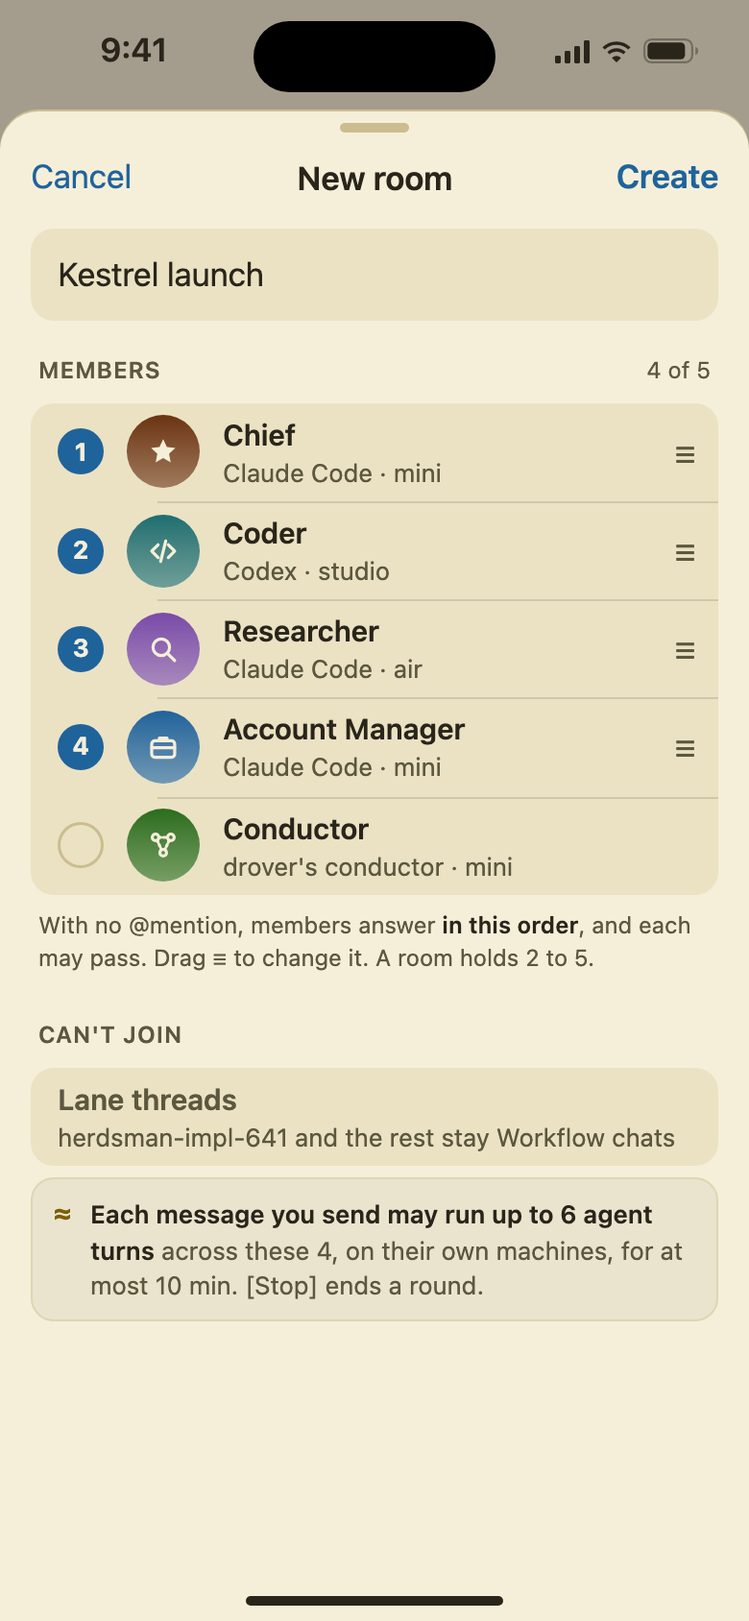
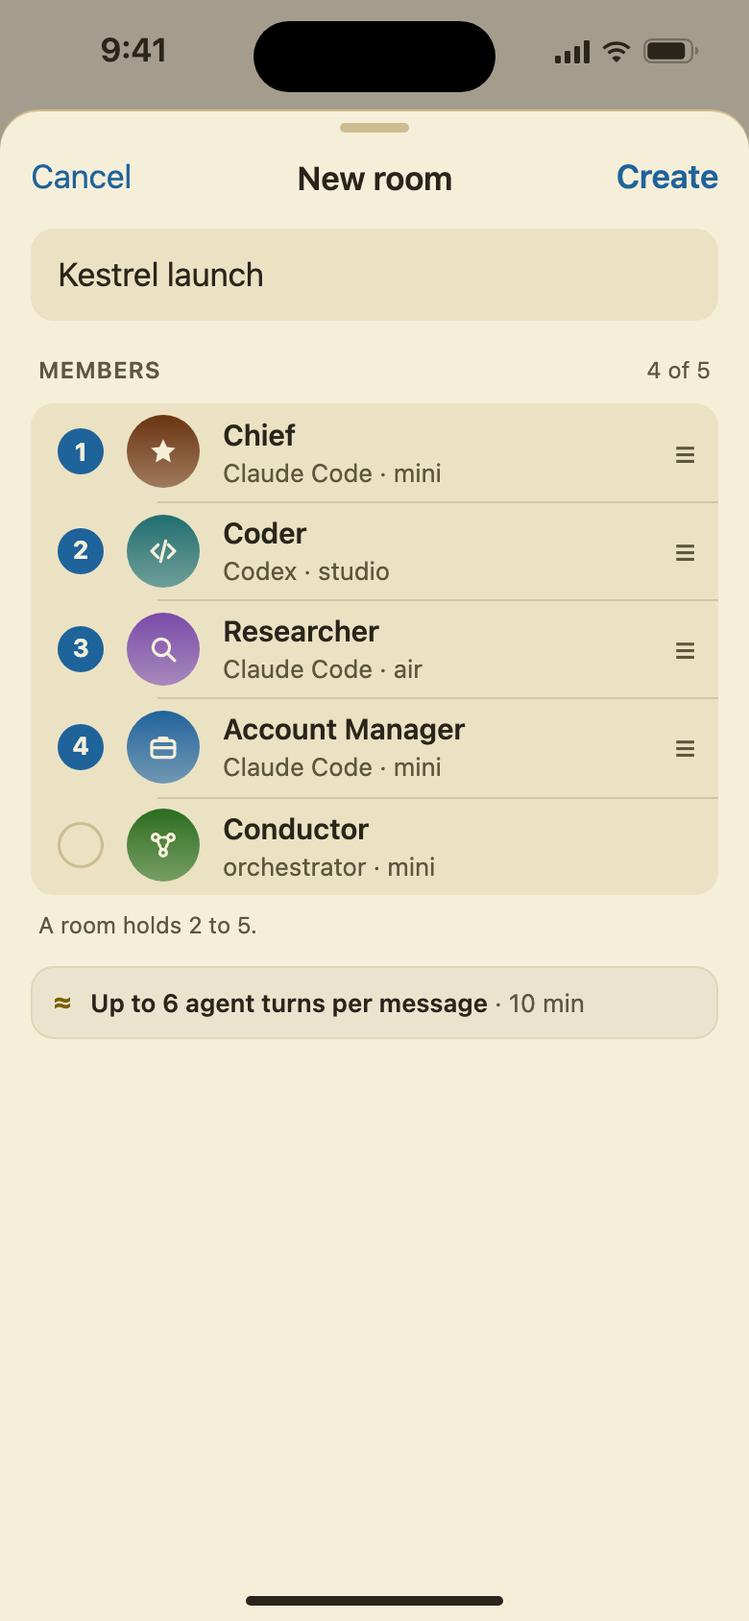
design: rooms revision 2: cut prose, orchestrator subtitle, linked-thread note composer, phone Home (#153; q1071, q1079)

diff --git a/docs/design/rooms/linked.html b/docs/design/rooms/linked.html
@@ -25,8 +25,9 @@
     <li class="at">I'll ask Researcher for the figures.</li>
     <li class="lx"><span class="lxh"><i class="pa" data-p="coder"></i><i>→</i><i class="pa" data-p="res"></i><span><b>Coder</b> asked <b>Researcher</b></span></span>
       <q>What did Kestrel report for Q3 revenue? I need the number and the filing date.</q>
-      <p class="lo"><span>✓ replied in 48s</span><a href="#">Open ›</a></p></li>
-    <li class="at">Q3 was <b>$4.1M</b> (10-Q, 6 Nov). It's in export/summary.md. I'll check the discount too.</li>
+      <p class="lnote"><b>Your note</b> Use the 10-Q, not the deck, if they differ.</p>
+      <p class="lo"><span>✓ replied in 48s · with your note</span><a href="#">Open ›</a></p></li>
+    <li class="at">Q3 was <b>$4.1M</b> (10-Q, 6 Nov, per your note). It's in export/summary.md. I'll check the discount too.</li>
     <li class="lx no"><span class="lxh"><i class="pa" data-p="coder"></i><i>→</i><i class="pa" data-p="am"></i><span><b>Coder</b> asked <b>Account Manager</b></span></span>
       <q>Is the 8% Kestrel discount final?</q>
       <p class="lo"><span>Not sent: Coder may not ask Account Manager</span><a href="#">Persona ›</a></p></li>
@@ -39,7 +40,8 @@
 </section></div>
 
 <!-- The linked exchange thread: the asker's message, the asked persona's tools (you see them; the asker got only the
-     reply), a depth-2 ask nested in it, the reply that went back. Read-only, with the depth meter. -->
+     reply), the owner's note to the answerer (the asker gets it with the reply), a depth-2 ask nested in it, the reply
+     that went back, the depth meter and the note composer. -->
 <div class="fr"><p class="cap">The linked thread · Coder ⇄ Researcher</p>
 <section class="ph col" data-f="linked">
   <header class="rhd"><a class="gb" href="#" data-tx="[<]" aria-label="back"><svg viewBox="0 0 24 24"><path d="M15 5l-7 7 7 7"/></svg></a>
@@ -52,21 +54,24 @@
       <div class="mt">What did Kestrel report for Q3 revenue? I need the number and the filing date.</div></li>
     <li class="mg" data-t="res"><i class="pa" data-p="res"></i><span class="mname"><b>Researcher</b><span>09:50</span></span>
       <a class="mx" href="#"><b class="g">✓</b><span>fetch sec.gov · 2 tools · only you see these</span><i>›</i></a></li>
+    <li class="onote"><span class="olb">Your note · to Researcher</span><span class="blk me">Use the 10-Q, not the deck, if they differ.</span></li>
     <li class="lx"><span class="lxh"><i class="pa" data-p="res"></i><i>→</i><i class="pa" data-p="am"></i><span><b>Researcher</b> asked <b>Account Manager</b></span></span>
       <q>Does Kestrel's Q3 deck restate revenue?</q>
-      <p class="lo"><span>✓ replied in 21s · depth 2, it may ask no one</span><a href="#">Open ›</a></p></li>
+      <p class="lo"><span>✓ replied in 21s · depth 2</span><a href="#">Open ›</a></p></li>
     <li class="mg" data-t="res"><i class="pa" data-p="res"></i><span class="mname"><b>Researcher</b><span>replied · 09:51</span></span>
-      <div class="mt">Q3 revenue was <b>$4.1M</b>, up 12% on Q2, from the 10-Q filed 6 Nov. Their deck agrees.</div></li>
-    <li class="rnd">returned to Coder · 48s</li>
+      <div class="mt">Q3 revenue was <b>$4.1M</b>, up 12% on Q2, from the 10-Q filed 6 Nov, as you asked. Their deck agrees.</div></li>
+    <li class="rnd">returned to Coder with your note · 48s</li>
   </ol>
   <div class="lxf">
     <span class="dep"><i><u></u><u class="o"></u></i>depth 1 of 2 · Researcher could ask one more</span>
-    <span>You watch linked exchanges here; you talk to a persona in its own chat.</span>
     <span class="bt2"><a href="#">Coder's chat</a><a href="#">Researcher's chat</a></span>
+  </div>
+  <div class="dock">
+    <div class="comp"><a class="gb" href="#" data-tx="[+]">+</a><span class="cfld"><span>Note to Researcher</span></span><span class="snd">↑</span></div>
   </div>
 </section></div>
 
-<!-- An ask in a room names its member; the round waits on you; only you see it (G3). -->
+<!-- An ask in a room names its member; the round waits on you with its clock paused; only you see it (G3). -->
 <div class="fr"><p class="cap">A room ask · names the member</p>
 <section class="ph col" data-f="approval">
   <header class="rhd"><a class="gb" href="#" data-tx="[<]" aria-label="back"><svg viewBox="0 0 24 24"><path d="M15 5l-7 7 7 7"/></svg></a>
@@ -117,18 +122,22 @@
         <div class="mt">What did Kestrel report for Q3 revenue? I need the number and the filing date.</div></li>
       <li class="mg" data-t="res"><i class="pa" data-p="res"></i><span class="mname"><b>Researcher</b><span>09:50</span></span>
         <a class="mx" href="#"><b class="g">✓</b><span>fetch sec.gov · 2 tools · only you see these</span><i>›</i></a></li>
+      <li class="onote"><span class="olb">Your note · to Researcher</span><span class="blk me">Use the 10-Q, not the deck, if they differ.</span></li>
       <li class="lx"><span class="lxh"><i class="pa" data-p="res"></i><i>→</i><i class="pa" data-p="am"></i><span><b>Researcher</b> asked <b>Account Manager</b></span></span>
         <q>Does Kestrel's Q3 deck restate revenue?</q>
-        <p class="lo"><span>✓ replied in 21s · depth 2, it may ask no one</span><a href="#">Open ›</a></p></li>
+        <p class="lo"><span>✓ replied in 21s · depth 2</span><a href="#">Open ›</a></p></li>
       <li class="mg" data-t="res"><i class="pa" data-p="res"></i><span class="mname"><b>Researcher</b><span>replied · 09:51</span></span>
-        <div class="mt">Q3 revenue was <b>$4.1M</b>, up 12% on Q2, from the 10-Q filed 6 Nov. Their deck agrees.</div></li>
-      <li class="rnd">returned to Coder · 48s</li>
+        <div class="mt">Q3 revenue was <b>$4.1M</b>, up 12% on Q2, from the 10-Q filed 6 Nov, as you asked. Their deck agrees.</div></li>
+      <li class="rnd">returned to Coder with your note · 48s</li>
     </ol>
     <div class="lxf">
-      <span class="dep"><i><u></u><u class="o"></u></i>depth 1 of 2 · Researcher could ask one more · you watch here; you talk to a persona in its own chat</span>
+      <span class="dep"><i><u></u><u class="o"></u></i>depth 1 of 2 · Researcher could ask one more</span>
       <span class="bt2"><a href="#">Coder's chat</a><a href="#">Researcher's chat</a></span>
     </div>
-  </div>
+    <div class="dock">
+      <div class="comp"><a class="gb" href="#" data-tx="[+]">+</a><span class="cfld"><span>Note to Researcher</span></span><span class="snd">↑</span></div>
+    </div>
+</div>
 </section></div>
 
 </div>

diff --git a/docs/design/rooms/room.html b/docs/design/rooms/room.html
@@ -12,8 +12,15 @@
 <body>
 <div class="gal">
 
-<!-- New room: a sheet from Home's +. Name, members in room order (2–5, G6), Conductor may join (G5), lane threads
-     may not, and the cost note before the room exists. -->
+<!-- Home on the phone: a room is a row with its members' 2×2 stack, as at 1440; a linked exchange hangs under its
+     asker's chat. -->
+<div class="fr"><p class="cap">Home · a room's row, exchanges under their asker</p>
+<section class="ph col" data-f="home">
+  <div class="side phn" data-x="side" data-ph></div>
+</section></div>
+
+<!-- New room: a sheet from Home's +. Name, members in room order (2–5, G6), Conductor may join (G5; lane threads are
+     not listed), and the cost note before the room exists. -->
 <div class="fr"><p class="cap">New room · pick personas, set their order</p>
 <section class="ph" data-f="create">
   <div class="rdim"></div>
@@ -28,12 +35,10 @@
         <a class="fr2" href="#"><span class="ck yes">2</span><i class="pa" data-p="coder"></i><span class="tx"><b>Coder</b><small>Codex · studio</small></span><span class="ord">≡</span></a>
         <a class="fr2" href="#"><span class="ck yes">3</span><i class="pa" data-p="res"></i><span class="tx"><b>Researcher</b><small>Claude Code · air</small></span><span class="ord">≡</span></a>
         <a class="fr2" href="#"><span class="ck yes">4</span><i class="pa" data-p="am"></i><span class="tx"><b>Account Manager</b><small>Claude Code · mini</small></span><span class="ord">≡</span></a>
-        <a class="fr2" href="#"><span class="ck"></span><i class="pa" data-p="cond"></i><span class="tx"><b>Conductor</b><small>drover's conductor · mini</small></span></a>
+        <a class="fr2" href="#"><span class="ck"></span><i class="pa" data-p="cond"></i><span class="tx"><b>Conductor</b><small>orchestrator · mini</small></span></a>
       </div>
-      <p class="ft">With no @mention, members answer <b>in this order</b>, and each may pass. Drag ≡ to change it. A room holds 2 to 5.</p>
-      <p class="lb2">Can't join</p>
-      <div class="rfl"><span class="fr2 nope"><span class="tx"><b>Lane threads</b><small>herdsman-impl-641 and the rest stay Workflow chats</small></span></span></div>
-      <div class="cost"><span class="ico">≈</span><span><b>Each message you send may run up to 6 agent turns</b> across these 4, on their own machines, for at most 10 min. [Stop] ends a round.</span></div>
+      <p class="ft">A room holds 2 to 5.</p>
+      <div class="cost"><span class="ico">≈</span><span><b>Up to 6 agent turns per message</b> · 10 min</span></div>
     </div>
   </div>
 </section></div>
@@ -107,7 +112,7 @@
     <div class="rshi">
       <div class="heroic"><i class="pa" data-p="res" data-s="72"></i><b>Researcher</b><span class="agc2"><b>Claude Code</b>· sonnet 5.5</span></div>
       <div class="rfl">
-        <span class="fr2"><span class="tx"><b>In this room</b></span><span class="rsv">3rd of 4 · replied 1m ago</span></span>
+        <span class="fr2"><span class="tx"><b>In this room</b></span><span class="rsv">3rd of 4 · replied 1m ago</span><span class="ord">≡</span></span>
         <span class="fr2"><span class="tx"><b>Runs on</b></span><span class="rsv">air · its own session</span></span>
         <span class="fr2"><span class="tx"><b>Sees</b></span><span class="rsv">final replies only</span></span>
         <span class="fr2"><span class="tx"><b>May ask, outside rooms</b></span><span class="rsv">Account Manager</span></span>
@@ -153,13 +158,13 @@
   <aside class="mp">
     <h4>Members · 4 of 5</h4>
     <div class="rfl avs">
-      <a class="fr2" href="#" data-k="replied"><i class="pa" data-p="chief" data-k="replied"></i><span class="tx"><b>1 · Chief</b><small>Claude Code · mini</small></span><span class="rsv mw">replied</span></a>
-      <a class="fr2" href="#" data-k="passed"><i class="pa" data-p="coder" data-k="passed"></i><span class="tx"><b>2 · Coder</b><small>Codex · studio</small></span><span class="rsv mw">passed</span></a>
-      <a class="fr2" href="#" data-k="replied"><i class="pa" data-p="res" data-k="replied"></i><span class="tx"><b>3 · Researcher</b><small>Claude Code · air</small></span><span class="rsv mw">replied</span></a>
-      <a class="fr2 sel" href="#" data-k="replying"><i class="pa" data-p="am" data-k="replying"></i><span class="tx"><b>4 · Account Manager</b><small>Claude Code · mini</small></span><span class="rsv mw">replying</span></a>
+      <a class="fr2" href="#" data-k="replied"><i class="pa" data-p="chief" data-k="replied"></i><span class="tx"><b>1 · Chief</b><small>Claude Code · mini</small></span><span class="rsv mw">replied</span><span class="ord">≡</span></a>
+      <a class="fr2" href="#" data-k="passed"><i class="pa" data-p="coder" data-k="passed"></i><span class="tx"><b>2 · Coder</b><small>Codex · studio</small></span><span class="rsv mw">passed</span><span class="ord">≡</span></a>
+      <a class="fr2" href="#" data-k="replied"><i class="pa" data-p="res" data-k="replied"></i><span class="tx"><b>3 · Researcher</b><small>Claude Code · air</small></span><span class="rsv mw">replied</span><span class="ord">≡</span></a>
+      <a class="fr2 sel" href="#" data-k="replying"><i class="pa" data-p="am" data-k="replying"></i><span class="tx"><b>4 · Account Manager</b><small>Claude Code · mini</small></span><span class="rsv mw">replying</span><span class="ord">≡</span></a>
       <a class="fr2 lnk" href="#"><span class="tx">+ Add a member</span></a>
     </div>
-    <div class="cost"><span class="ico">≈</span><span><b>Each message may run up to 6 agent turns</b> on these 4 machines, for at most 10 min. Members see each other's final replies only.</span></div>
+    <div class="cost"><span class="ico">≈</span><span><b>Up to 6 agent turns per message</b> · 10 min</span></div>
   </aside>
 </section></div>
 

diff --git a/docs/design/rooms/rm.js b/docs/design/rooms/rm.js
@@ -5,7 +5,8 @@
 //   .pa[data-p]             a persona's avatar in the style: Modern its symbol on its tint, Terminal its ASCII figure,
 //                           Scene its horse (apple/Sources/CooeeUI/Sprites, in its coat, acting data-pose); data-k a dot
 //   [data-x=strip]          the room's member strip (data-sel: the member whose sheet is open)
-//   [data-x=side]           the 1440 sidebar: Home with rooms and linked exchanges (data-sel: the open row)
+//   [data-x=side]           Home with rooms and linked exchanges: the 1440 sidebar, or the phone's list with data-ph
+//                           (data-sel: the open row)
 const W = '../../../web/', P = '../../../packs/themes/', SPR = '../../../apple/Sources/CooeeUI/Sprites/';
 const q = new URLSearchParams(location.search);
 const T = q.get('theme') || 'farm', F = q.get('f');
@@ -21,7 +22,7 @@ if (STYLE === 'scene') r.dataset.scene = '';
 if (F) { r.dataset.one = ''; document.querySelector(`[data-f="${F}"]`)?.closest('.fr').classList.add('one'); }
 
 // The personas (#124's fixtures): name, tint, Modern symbol, Scene coat, agent, and the machine its session runs on
-// (G7: each member on its own machine). Conductor is drover's conductor persona (G5: it may join a room).
+// (G7: each member on its own machine). Conductor is the orchestrator persona (G5: it may join a room).
 const G = {
   star: '<svg class=f viewBox="0 0 24 24"><path d="M12 2.5l2.9 6.1 6.6.8-4.9 4.6 1.3 6.6L12 17.3 6.1 20.6l1.3-6.6L2.5 9.4l6.6-.8z"/></svg>',
   code: '<svg viewBox="0 0 24 24"><path d="M8 7l-5 5 5 5M16 7l5 5-5 5M14 4l-4 16"/></svg>',
@@ -80,7 +81,7 @@ function side(e) {
     : `<a class="hr${sel === (x.room || x.p) ? ' sel' : ''}" href="#"><span class=av2>${x.stk
       ? `<span class="stk v">${x.stk.split(' ').map(p => `<i class=pa data-p=${p}></i>`).join('')}</span>` : `<i class=pa data-p=${x.p}></i>`}</span>
       <span class=hn2><b>${x.n}</b><span>${x.s}</span></span><span class="age${x.u ? ' u' : ''}">${x.a}</span><span class=ln>${x.l}</span>${x.u ? `<span class=bd2>${x.u}</span>` : '<span></span>'}</a>`;
-  return `<div class=lights><i></i><i></i><i></i></div><div class=sdtop><span class=gb>G</span><b>cooee</b><span class=gb>+</span></div><h2 class=lt2>Chats</h2>${ROWS.map(row).join('')}`;
+  return `${'ph' in e.dataset ? '' : '<div class=lights><i></i><i></i><i></i></div>'}<div class=sdtop><span class=gb>G</span><b>cooee</b><span class=gb>+</span></div><h2 class=lt2>Chats</h2>${ROWS.map(row).join('')}`;
 }
 
 const SB = `<span>9:41</span><span class=si><svg viewBox="0 0 18 12"><rect y="8" width="3" height="4" rx=".7"/><rect x="5" y="5.5" width="3" height="6.5" rx=".7"/><rect x="10" y="3" width="3" height="9" rx=".7"/><rect x="15" width="3" height="12" rx=".7"/></svg><svg viewBox="0 0 16 12"><path d="M8 2.4c2.4 0 4.5.9 6.1 2.4L15.3 3.6A10.3 10.3 0 0 0 8 .6 10.3 10.3 0 0 0 .7 3.6l1.2 1.2A8.6 8.6 0 0 1 8 2.4zm0 3.5c1.4 0 2.6.5 3.6 1.4l1.2-1.2A6.8 6.8 0 0 0 8 4.1 6.8 6.8 0 0 0 3.2 6.1l1.2 1.2c1-.9 2.2-1.4 3.6-1.4zM8 11.5l2.4-2.4a3.4 3.4 0 0 0-4.8 0z"/></svg><svg viewBox="0 0 27 12" style="height:13px"><rect x=".5" y=".5" width="23" height="11" rx="3.5" fill="none" stroke="currentColor" opacity=".4"/><rect x="2" y="2" width="18" height="8" rx="2"/><path d="M25 4v4c.8-.3 1.4-1 1.4-2S25.8 4.3 25 4z" opacity=".4"/></svg></span>`;

diff --git a/docs/design/rooms/rm.css b/docs/design/rooms/rm.css
@@ -221,3 +221,13 @@ html[data-style=terminal] .hr.sel{background:none;box-shadow:inset 3px 0 0 var(-
 .hr>.av2 .stk.v .pa{--s:24px}
 html[data-style=terminal] .stk .pa{--s:26px}html[data-style=terminal] .stk .pa+.pa{margin-left:2px}
 html[data-scene] .stk .pa{--s:24px;box-shadow:none}html[data-scene] .stk .pa+.pa{margin-left:-8px}
+/* Revision 2 (q1079): the owner's note in a linked thread, marked as the owner's and addressed to the answerer
+   (onote, olb its label), and the same note as the asker sees it on its ask_persona card (lnote). */
+.onote{display:flex;flex-direction:column;align-items:flex-end;gap:4px}
+.onote .olb{font-size:12px;color:var(--mute)}.onote .blk.me{max-width:85%}
+.lnote{margin:0;padding:6px 10px;border-radius:var(--r-row);background:color-mix(in srgb,var(--l) 12%,transparent);font-size:var(--fs-meta);color:var(--fg)}
+.lnote b{margin-right:6px;color:var(--mute);font-weight:600}
+html[data-style=terminal] .lnote{border-radius:0;background:none;box-shadow:inset 3px 0 0 var(--l)}
+/* Home on the phone (revision 2): the same rows as the 1440 sidebar, full width. */
+.side.phn{flex:1;min-height:0;border-right:0;background:var(--bg);padding:6px 10px 0}
+.wd.mac .lxf{padding-inline:max(24px,calc((100% - 92ch)/2))}

diff --git a/docs/design/rooms/README.md b/docs/design/rooms/README.md
@@ -16,15 +16,15 @@ horse in its coat, acting its state.
 
 | page | frames |
 |---|---|
-| `room.html` | New room, the room mid-round, @mention, a member's sheet, the room at 1440 |
-| `linked.html` | The asker's chat with its `ask_persona` cards, the linked thread, a member's ask in a room, the pushes, a linked thread at 1440 |
+| `room.html` | Home on the phone, New room, the room mid-round, @mention, a member's sheet, the room at 1440 |
+| `linked.html` | The asker's chat with its `ask_persona` cards, the linked thread with the owner's note, a member's ask in a room, the pushes, a linked thread at 1440 |
 | `styles.html` | The same frames in Modern, Terminal and Scene, side by side (iframes of the two pages with `?style=`, so the styles cannot drift) |
 
 Open a page without a query to see every frame in a gallery. `?f=<frame>` shows one frame at its own size, and
 `&mode=dark|light&style=modern|terminal|scene` sets the look. Serve the repo root over http, since the pages fetch from
 `web/` and `packs/`. Run `node docs/design/rooms/shoot.mjs <chrome-headless-shell> [regexp]` from the repo root to
 regenerate every PNG. It checks each shot for sideways scroll, anything past the right edge, and cut text without an
-ellipsis. **All 19 pass.** The 390 shots are 390 × 844 at 2×, and the 1440 shots are 1440 × 900 at 1×. Scheme: farm.
+ellipsis. **All 20 pass.** The 390 shots are 390 × 844 at 2×, and the 1440 shots are 1440 × 900 at 1×. Scheme: farm.
 Data: illustrative (#124's personas).
 
 ## The PNGs and the decision each shows
@@ -33,21 +33,22 @@ Data: illustrative (#124's personas).
 
 | PNG | shows | decision |
 |---|---|---|
-| `create-390-dark.png`, `-light.png` | **New room**, a sheet from Home's `+`. It has a name, then **Members 4 of 5**: each persona with its order number, agent and machine, and a ≡ handle. Conductor (drover's conductor persona) can be picked. "With no @mention, members answer **in this order**, and each may pass." **Can't join:** lane threads, which stay Workflow chats. Then the **cost note**: each message may run up to 6 agent turns across these 4, on their own machines, for at most 10 min, and [Stop] ends a round. | G1 room order; G5 Conductor yes, lanes no; G6 at most 5; G2 and the cost note before the room exists |
+| `home-390-dark.png` | **Home on the phone.** A room is a row with its members' **2×2 stack** (`Kestrel launch 4 members`, last reply with its speaker, unread count), as at 1440. Coder's chat has its **linked exchanges hanging under it** (⇄), and the depth-2 one too. | rooms and exchanges in Home, on the phone (revision 2, item 4) |
+| `create-390-dark.png`, `-light.png` | **New room**, a sheet from Home's `+`. It has a name, then **Members 4 of 5**: each persona with its order number, agent and machine, and a ≡ handle. Conductor, subtitled by its role (`orchestrator · mini`), can be picked. Lane threads are not listed. "A room holds 2 to 5." The **cost note** is one line: `Up to 6 agent turns per message · 10 min`. | G1 room order; G5 Conductor yes, lanes not offered; G6 at most 5; G2 and the cost note before the room exists |
 | `room-390-dark.png`, `-light.png` | **The room mid-round.** The header shows the members' stack, `Kestrel launch` and `4 members · 6 turns max`. The **member strip** lists each member in room order with its state: Chief *replied*, Coder *passed*, Researcher *replied*, Account Manager *replying*, tinted as the live one. Every reply carries its **avatar and name**, and `@Researcher` in Chief's reply is a mention. Coder's pass is not shown in the chat, only in the strip. Researcher's tools fold into one row, **"only you see these"**. The **round pill** reads `Turn 4 of 6 · 2:14 of 10:00`, with **Stop**. | G1 every member may reply or pass, in order; a pass is not shown; G2 the cap, the deadline and [stop]; G3 members see final replies only, the owner sees the tools |
 | `mention-390-dark.png` | **@mention.** `@Coder check Q3 with @Re▍`: the popover lists the room's members, with Researcher matched and marked "replies 2nd", and Coder dimmed as "mentioned". A line above the field says who replies before you send: **"Coder, then Researcher reply, and anyone they @mention."** The strip previews it, showing Coder and Researcher *up next* and the others *waiting*. | the turn engine: mentioned members first, in mention order; a mention in a reply queues that member |
-| `member-390-dark.png` | **A member's sheet**, opened by tapping Researcher in the strip, which stays outlined. It shows the avatar, name and agent chip, then **In this room** (3rd of 4, replied 1m ago), **Runs on** (`air · its own session`), **Sees** (final replies only) and **May ask, outside rooms** (Account Manager: its `can_message`). The note reads: its instructions, memory and plugins are its own; its tools, approvals and files stay with you unless shared in a reply. Last come Open Researcher's persona and **Remove from Kestrel launch**. | G7 its own machine; G3; G4 `can_message` shown where you can see it |
-| `room-1440.png` (dark) | **The Mac window** (#124's mac-window). Home is the sidebar: the room is a row with its **2×2 stack**, and Coder's chat has **its linked exchanges hanging under it** (⇄). The room fills the detail, and the strip becomes a **members pane** on the right (order, agent, machine, state, `+ Add a member`) with the cost note under it. A past round ends with a divider: `round ended · 2 turns`. | at 1440 the strip is a pane; rooms and exchanges in Home |
+| `member-390-dark.png` | **A member's sheet**, opened by tapping Researcher in the strip, which stays outlined. It shows the avatar, name and agent chip, then **In this room** (3rd of 4, replied 1m ago), **Runs on** (`air · its own session`), **Sees** (final replies only) and **May ask, outside rooms** (Account Manager: its `can_message`). The note reads: its instructions, memory and plugins are its own; its tools, approvals and files stay with you unless shared in a reply. **In this room** carries a ≡ handle to reorder. Last come Open Researcher's persona and **Remove from Kestrel launch**. | G7 its own machine; G3; G4 `can_message` shown where you can see it; reorder after creation |
+| `room-1440.png` (dark) | **The Mac window** (#124's mac-window). Home is the sidebar: the room is a row with its **2×2 stack**, and Coder's chat has **its linked exchanges hanging under it** (⇄). The room fills the detail, and the strip becomes a **members pane** on the right (order, agent, machine, state, a ≡ handle to drag, `+ Add a member`) with the one-line cost note under it. A past round ends with a divider: `round ended · 2 turns`. | at 1440 the strip is a pane; drag to reorder; rooms and exchanges in Home |
 
 ### `linked.html`
 
 | PNG | shows | decision |
 |---|---|---|
-| `asked-390-dark.png`, `-light.png` | **Coder's own chat.** Each `ask_persona` call is a **card** naming who asked whom (`Coder → Researcher`), the message, and the outcome (`✓ replied in 48s`), with **Open ›** to the linked thread. A second card is **refused by G4**: `Not sent: Coder may not ask Account Manager`, in red, with `Persona ›` (where `can_message` is set). Coder reads the same error and says it can't reach Account Manager. | ask_persona: start or reuse a linked thread, reply or a readable error; G4 `can_message` |
-| `linked-390-dark.png` | **The linked thread**, `Coder ⇄ Researcher`, linked from Coder's `Export for Kestrel`. It shows Coder's question, Researcher's tools (**only you see these**; Coder got only the reply), and a **depth-2 ask** nested in it (`Researcher → Account Manager`, "depth 2, it may ask no one"), then the reply and `returned to Coder · 48s`. It is **read-only**. Its footer has the **depth meter** (`depth 1 of 2 · Researcher could ask one more`), "you talk to a persona in its own chat", and both chats. | G4 depth 2; the owner sees every exchange as a linked thread |
-| `approval-390-dark.png` | **A member's ask in a room.** The choice card names its member (`✋ ASK · [avatar] Researcher`), then Allow once · recommended / Always for sec.gov / Deny, and "Only you see this. The others see Researcher's reply." The strip shows Researcher *asks you* in red, and the pill turns red: **Researcher asks you · turn 3 of 6**, with Stop. | approvals and asks in a room name the member; G3 |
+| `asked-390-dark.png`, `-light.png` | **Coder's own chat.** Each `ask_persona` call is a **card** naming who asked whom (`Coder → Researcher`), the message, and the outcome (`✓ replied in 48s`), with **Open ›** to the linked thread. The first card carries **Your note** (the owner's note from the linked thread) and `✓ replied in 48s · with your note`: the asker gets the note with the reply, and Coder uses it. A second card is **refused by G4**: `Not sent: Coder may not ask Account Manager`, in red, with `Persona ›` (where `can_message` is set). Coder reads the same error and says it can't reach Account Manager. | ask_persona: start or reuse a linked thread, reply or a readable error; G4 `can_message`; the asker sees the owner's note with the reply (q1079) |
+| `linked-390-dark.png` | **The linked thread**, `Coder ⇄ Researcher`, linked from Coder's `Export for Kestrel`. It shows Coder's question, Researcher's tools (**only you see these**; Coder got only the reply), then **the owner's note arriving**: right-aligned as the owner's, labelled `Your note · to Researcher`. A **depth-2 ask** is nested in it (`Researcher → Account Manager`, `depth 2`), then the reply ("as you asked") and `returned to Coder with your note · 48s`. Its footer has the **depth meter** (`depth 1 of 2 · Researcher could ask one more`) and both chats, and under them the **composer**, `Note to Researcher`. | G4 depth 2; the owner sees every exchange as a linked thread; the owner's note goes to the answering persona, marked as the owner's (q1079) |
+| `approval-390-dark.png` | **A member's ask in a room.** The choice card names its member (`✋ ASK · [avatar] Researcher`), then Allow once · recommended / Always for sec.gov / Deny, and "Only you see this. The others see Researcher's reply." The strip shows Researcher *asks you* in red, and the pill turns red: **Researcher asks you · turn 3 of 6**, with Stop. The clock leaves the pill: it is **paused** while the ask is open. | approvals and asks in a room name the member; G3; the clock pauses on an ask |
 | `push-390-dark.png` | **The pushes** a room sends, on the lock screen: `Kestrel launch · Researcher` *Asks you*, `Kestrel launch · Chief` *@you Can you sign…*, and `Kestrel launch · Coder` *Failed: export job exited 1 (studio)*. The note says replies to each other, passes and a round's end stay quiet and wait in the room's unread count. | push only when a member addresses the owner, asks or fails |
-| `linked-1440.png` (light) | **A linked thread at 1440.** In the sidebar the exchange is selected under its asker's chat, with the nested depth-2 exchange below it. The thread fills the detail, with the depth meter and both chats in the footer. | as above, at 1440 |
+| `linked-1440.png` (light) | **A linked thread at 1440.** In the sidebar the exchange is selected under its asker's chat, with the nested depth-2 exchange below it. The thread fills the detail with the owner's note, then the depth meter, both chats and the note composer. | as above, at 1440 |
 
 ### Styles (q947, as #124)
 
@@ -55,7 +56,7 @@ Data: illustrative (#124's personas).
 |---|---|
 | `room-terminal-390-dark.png` | The room in Terminal: SF Mono, ASCII figures ruled in each member's tint (`\o/` replied, `-.-` passed, `~o=` replying), square state dots, `[<]` `[…]` `[+]`, a dashed round pill with `[■ Stop]`, and the owner's message as Terminal's bar block. |
 | `mention-terminal-390-dark.png` | @mention in Terminal: the strip's *up next*, the square popover, and the mention tokens. |
-| `linked-terminal-390-dark.png` | A linked thread in Terminal: exchange cards ruled with a `--link` bar. |
+| `linked-terminal-390-dark.png` | A linked thread in Terminal: exchange cards ruled with a `--link` bar, the owner's note as Terminal's bar block, the dashed composer. |
 | `room-terminal-1440.png` | The Mac window in Terminal. |
 | `room-scene-390-light.png` | Scene: **the member strip stands in the farm strip**. Each member is its horse in its coat, acting its state over its name card: replied *in the stable*, passed *grazing*, replying *on the trail* (ploughing). Each message carries the member's horse. |
 | `approval-scene-390-light.png` | A member asks in Scene: Researcher rears **at the gate** (in red), and the ask card names it with its horse. |
@@ -67,35 +68,35 @@ Data: illustrative (#124's personas).
 - **A pass is quiet.** It shows only as the member's state in the strip (and in the round divider:
   `round ended · 4 turns · Coder passed`), never as a message.
 - **The round pill is the cost guard.** It shows `Turn n of 6`, the clock against 10:00, and Stop. While a member asks
-  you it turns red and names the member. Stop ends the round, and the members already replied keep their replies.
+  you it turns red, names the member and drops the clock, which pauses until you answer. Stop ends the round, and the
+  members already replied keep their replies. No money estimate: agents' prices differ per account, so turns and
+  minutes are the guard (G2).
 - **Owner-only rows.** A member's tool row in a room or a linked thread says "only you see these". Members, and the
   asker of a linked exchange, get the final reply only (G3).
-- **Rooms and exchanges in Home.** A room's row is its stack. A linked exchange hangs under its asker's chat, and a
+- **The owner's note in a linked thread.** The linked thread has a composer. A note goes to the answering persona
+  marked as the owner's, and the asker gets it with the reply (its card shows **Your note**).
+- **Reorder anywhere.** ≡ handles in New room, the members pane and the member sheet.
+- **Rooms and exchanges in Home**, on the phone and at 1440. A room's row is its stack. A linked exchange hangs under its asker's chat, and a
   depth-2 exchange under that one.
 - **New in `rm.css`:** `.gb` glass button; `.rhd`/`.hdt` header; `.agc2` agent chip; `.pa` avatar (3 styles, `.sdot`);
   `.stk` stack; `.mstrip`/`.mm`/`.mord`/`.mw` member strip; `.mg`/`.mname`/`.mt`/`.mnt`/`.mx` messages; `.rnd` divider;
   `.dock`/`.rp`/`.comp`/`.cfld`/`.mtk`/`.mhint` pill and composer; `.mpop` mention popover; `.rsh`/`.shb`/`.rfl`/`.fr2`/
-  `.ck`/`.ft` sheet and form; `.cost` cost note; `.lx`/`.lxh`/`.lo`/`.lxf`/`.dep` linked exchange; `.ask`/`.awho` a
+  `.ck`/`.ft` sheet and form; `.cost` cost note; `.lx`/`.lxh`/`.lo`/`.lxf`/`.dep` linked exchange; `.onote`/`.olb`/`.lnote`
+  the owner's note; `.side.phn` the phone's Home; `.ask`/`.awho` a
   member's ask; `.lock`/`.push` pushes; `.side`/`.hr`/`.mp` 1440; `.scn2` Scene's strip. **Reused:** the schemes, tokens,
   `.blk.me`, `.chc`/`.rec`, `.sd`, `[data-st]`, Terminal's `[data-style=terminal]` block, ns.css's phone chrome.
 
-## Open questions for the owner
+## Revision 2 (q1071, q1079)
 
-1. **Does the 10-min clock run while a member waits on you?** **Recommend:** it pauses while an ask is open, so
-   answering slowly doesn't end the round. The pill keeps the turn count and drops the clock until you answer. The
-   alternative is that it keeps running and the round ends with the ask still open.
-2. **Can the owner speak in a linked thread?** **Recommend:** no. It is read-only, as drawn, and you reply in a
-   persona's own chat. The alternative is a composer that injects an owner message into the exchange, which blurs who
-   asked.
-3. **Where does a pass show?** **Recommend:** only in the strip and the round divider, as drawn. The alternative is a
-   faint `Coder passed` line in the chat.
-4. **Reordering members after creation.** **Recommend:** drag in the members pane or sheet (`Move up / down`), same
-   ≡ handles as New room. Not drawn beyond New room.
-5. **Home's room row on the phone.** It is drawn at 1440 only (the 2×2 stack). **Recommend:** the same row on the
-   phone's Home list. Pinned rooms join the personas row as their stack.
-6. **The cost note's form.** It is drawn as a line in New room, the header (`6 turns max`), the pill and the 1440
-   pane. **Recommend:** no money estimate, since the agents' prices differ per account. Turns and minutes are the
-   guard (G2).
+1. Prose cut: New room keeps only "A room holds 2 to 5"; lane threads are not listed; the cost note is one line;
+   the linked thread loses "You watch linked exchanges here…" and "it may ask no one".
+2. Conductor's subtitle is its role, `orchestrator · mini` (herdsman#780, cooee#159).
+3. Linked threads have a composer; the owner's note is drawn arriving (`linked-*`) and on the asker's card (`asked-*`).
+4. Revision 1's open questions are settled as recommended: the clock pauses on an ask (`approval-*`); a pass shows
+   only in the strip and the round divider (`room-*`, `mention-*`); drag to reorder in the members pane and sheet
+   (`room-1440`, `member-390-dark`); the room row on the phone's Home (`home-390-dark`); no money estimate.
+
+No open questions remain.
 
 ## Suggested build issues (R4), once approved
 
@@ -103,8 +104,9 @@ Data: illustrative (#124's personas).
    messages, owner-only tool rows, the round pill with Stop, the round divider, and the member sheet.
 2. **@mention composer:** the popover over the room's members, mention tokens, and the "who replies" line with the
    strip's preview.
-3. **Linked exchanges:** the `ask_persona` card in the asker's chat (replied, refused, timed out), the read-only linked
-   thread with its depth meter, and exchanges under their asker in Home.
+3. **Linked exchanges:** the `ask_persona` card in the asker's chat (replied, refused, timed out), the linked
+   thread with its depth meter and the owner's note composer (the note reaches the answerer as the owner's and the asker
+   with the reply), and exchanges under their asker in Home.
 4. **Asks and pushes in rooms:** the choice card naming its member, the red pill, and pushes only on
    addresses-you / asks / fails.
 5. **Styles:** Terminal's figures and Scene's strip for the member strip.
